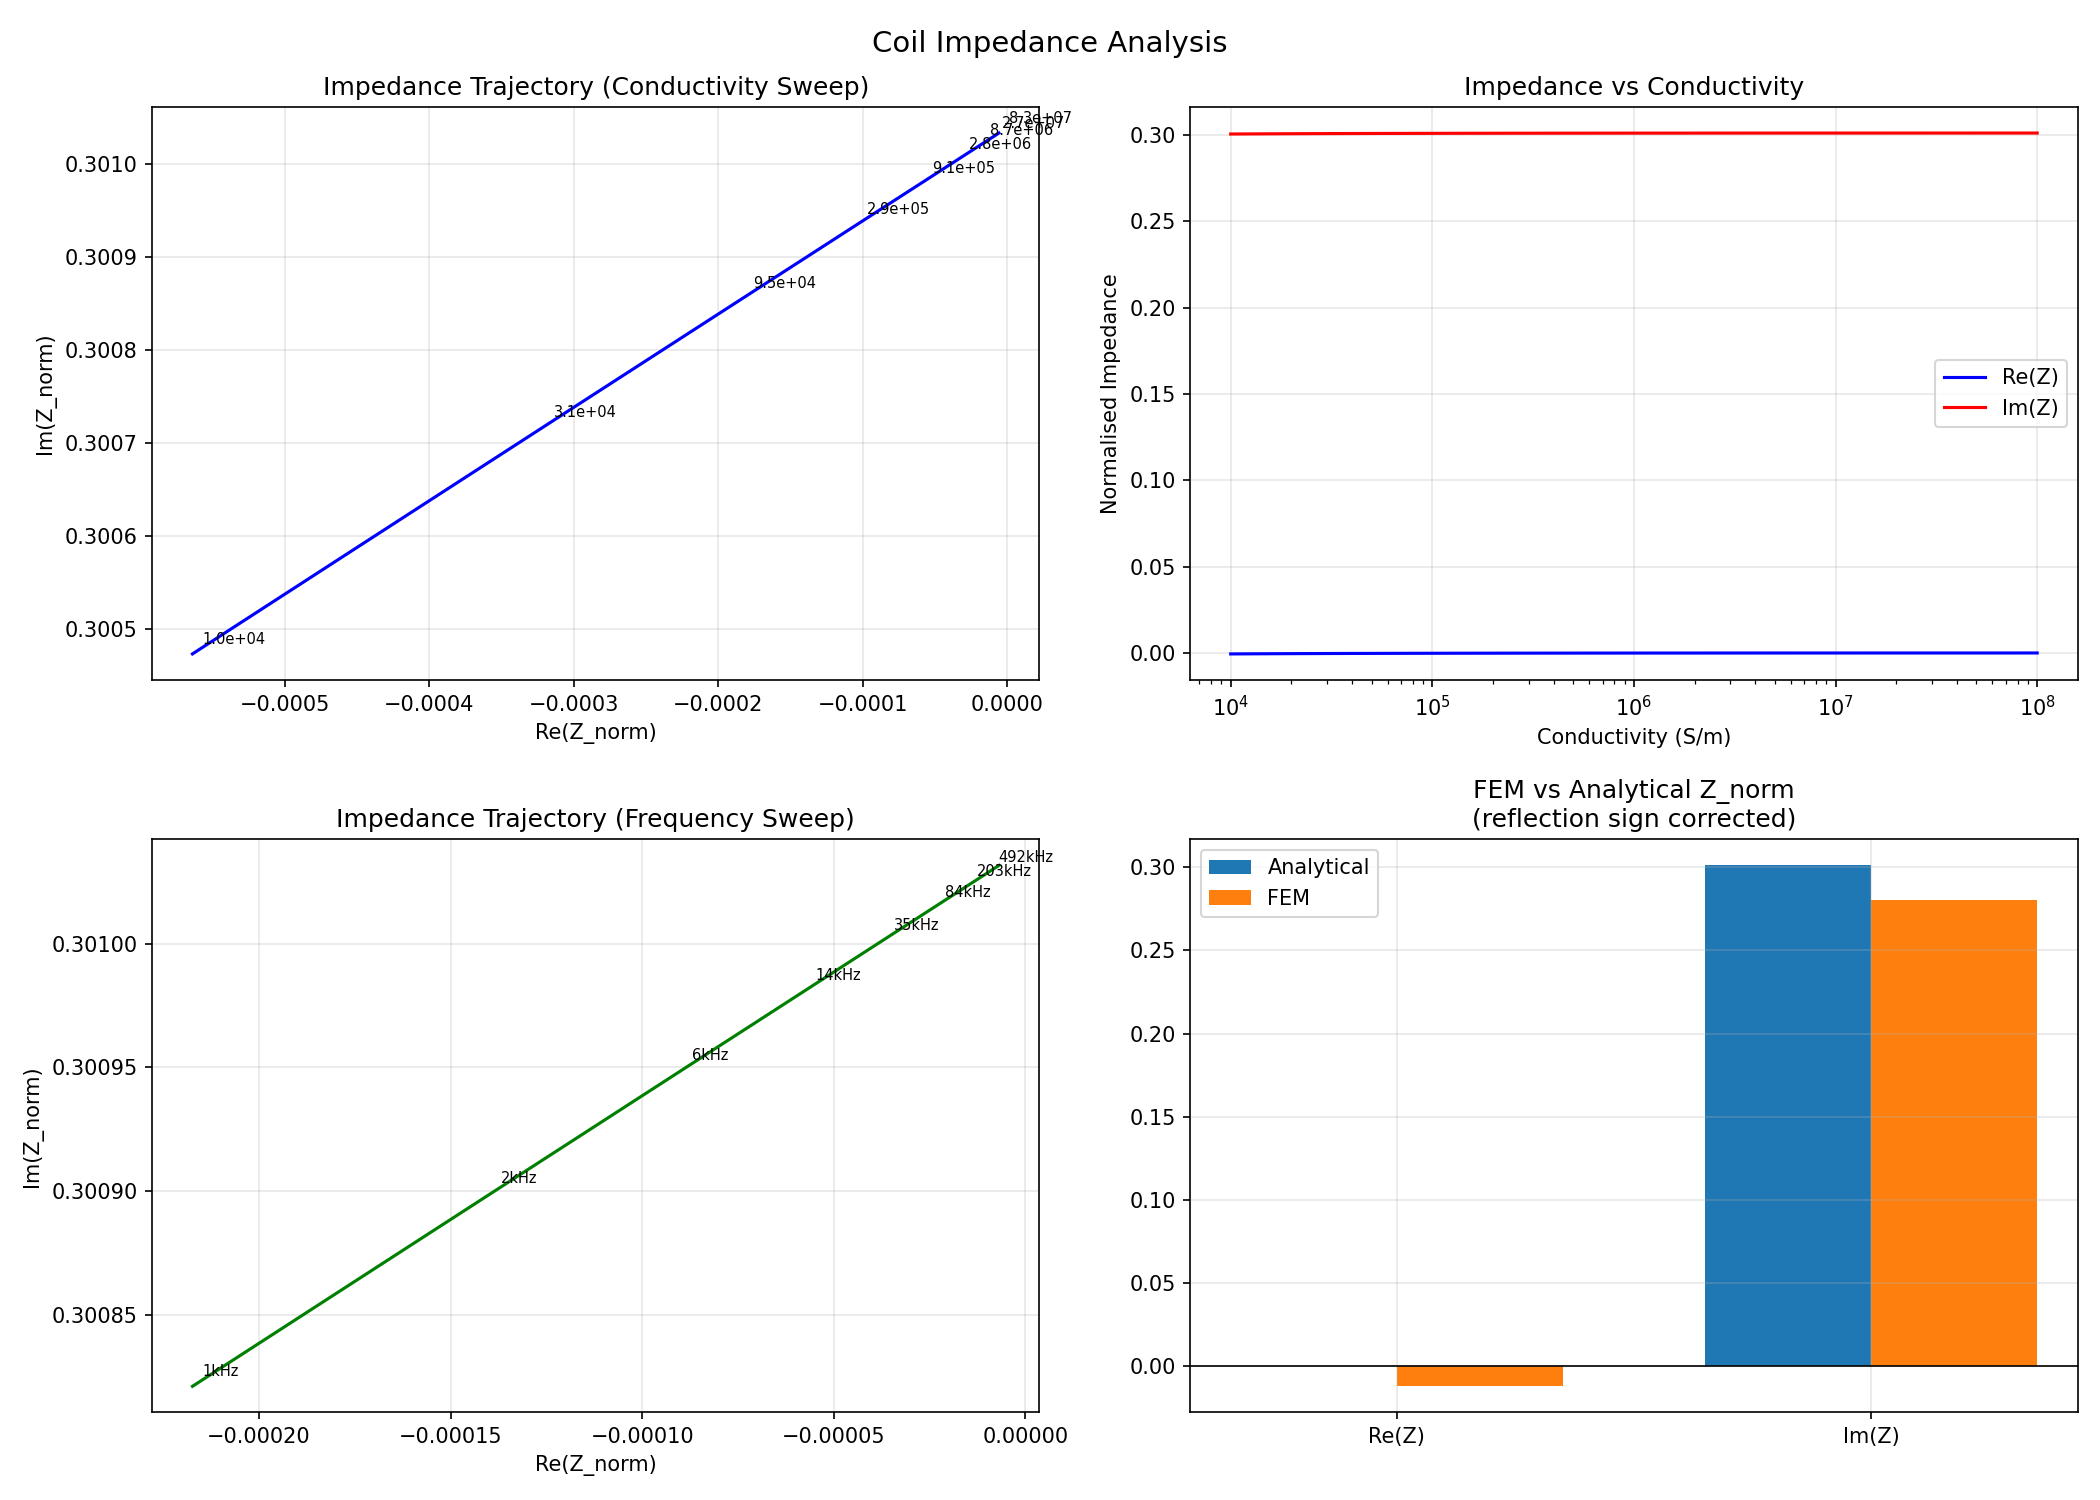
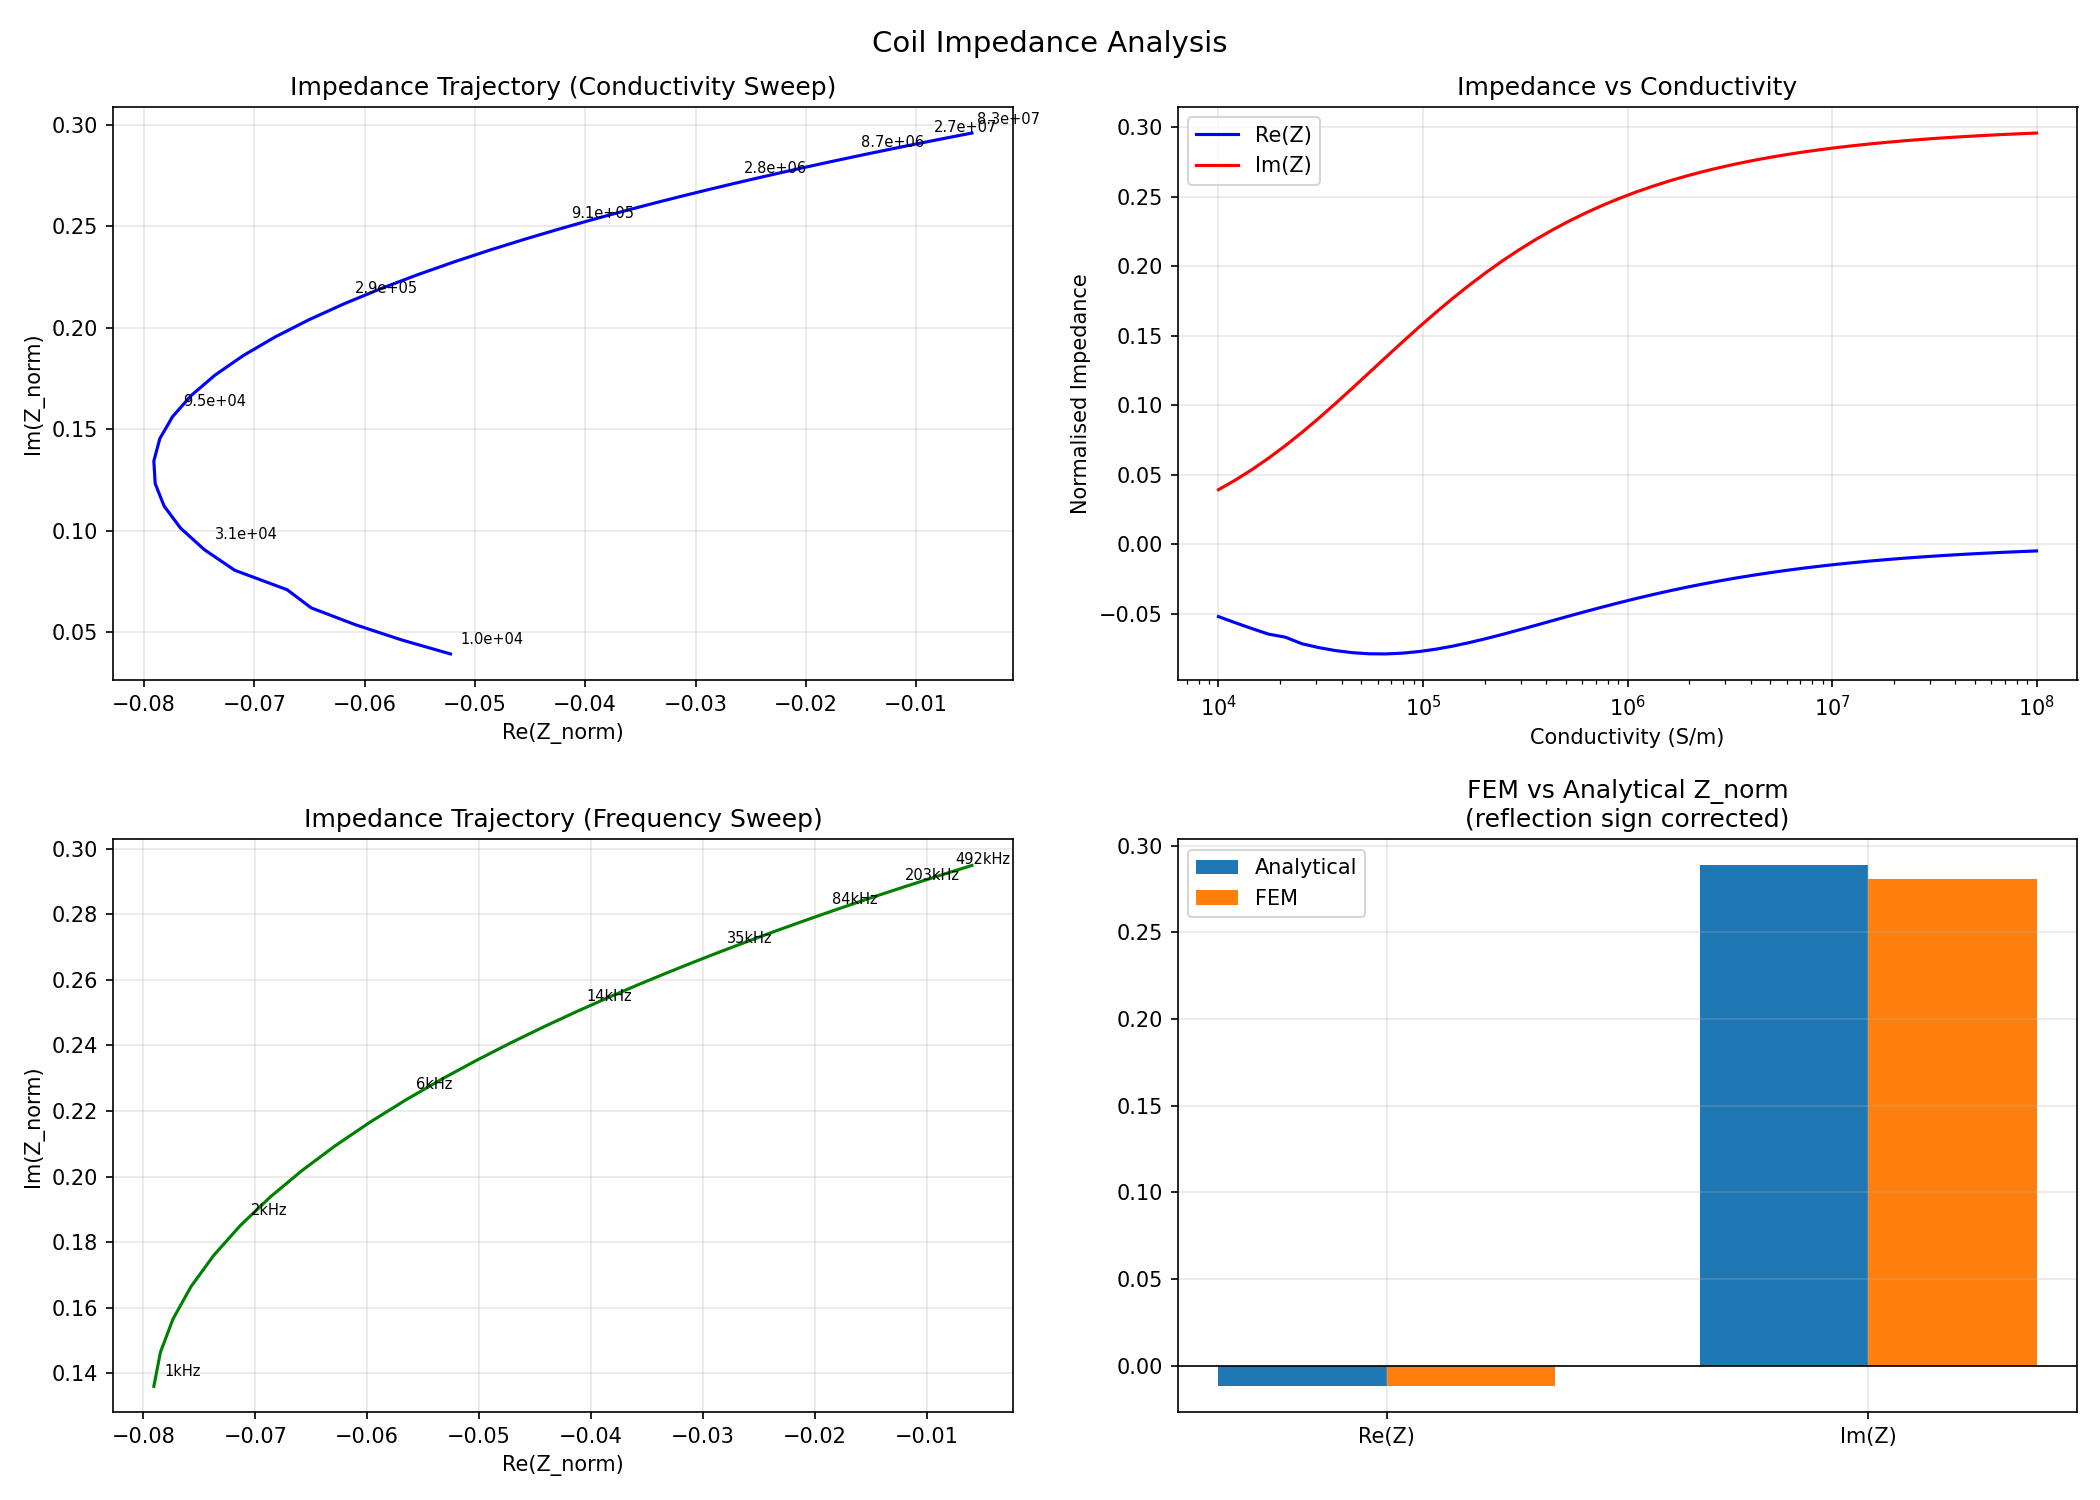
Fix units error in Dodd-Deeds gamma; resolve resistance discrepancy
The propagation parameter used 1j*omega*mu*sigma/mu0, i.e. omega*mu_r*sigma,
which is dimensionally wrong (omega*mu*sigma must have units 1/m^2 to match k^2).
The spurious 1/mu0 inflated the term by ~8e5, driving gamma huge so the
reflection coefficient saturated at -1 (a near-perfect-conductor limit): correct
reactance but ~800x too little loss. This was the long-standing ~850x resistance
discrepancy between the analytical model and the FEM.

Corrected to 1j*omega*mu*sigma. The analytical normalised impedance now matches
the independent FEM to 0.9% in resistance (-0.0119 vs -0.0120) and 2.8% in
reactance; the result is stable over k_max ~ 1000-8000. The inversion remains
self-consistent, so round-trip accuracy is unchanged; all 63 tests pass.

Also: demo_fem_impedance.py reports resistance agreement; paper updated to
describe the resolved discrepancy (the cross-validation caught two analytical
bugs). Regenerated fem_impedance_demo.png.

diff --git a/paper/ect_tensor_strain.tex b/paper/ect_tensor_strain.tex
@@ -49,8 +49,10 @@ optimal-design procedure for directional-probe sets (a conductivity ``rosette'')
 and (iv) a regularised, prior-informed inversion that fuses the measurements with
 a thermomechanical process simulation (data assimilation). Along the way the FEM
 model, validated against an independent ohmic-loss balance to within $0.000\%$,
-revealed and corrected a sign error in the analytical reflection coefficient of
-the classical Dodd--Deeds model. On synthetic LPBF builds, a single normal coil
+revealed and corrected two errors in the classical Dodd--Deeds analytical model
+--- a reflection-coefficient sign and a units error in the propagation parameter
+--- after which the analytical and FEM impedances agree to within $1\%$ in
+resistance and $3\%$ in reactance. On synthetic LPBF builds, a single normal coil
 resolves one strain degree of freedom, an in-plane rosette resolves three, and a
 six-direction tilted set resolves all six; the prior supplies the components that
 the probes cannot observe. The complete workflow is implemented in an open
@@ -163,18 +165,27 @@ mesh convergence           & order 3 $\approx$ order 4 & 5 significant figures\\
 
 The model is mesh-converged and internally exact: the resistance extracted from
 the flux-linkage impedance equals a direct volume integral of the ohmic loss
-$\tfrac12\!\int\sigma|E|^2\,\mathrm{d}V$ to within $0.000\%$
-(Table~\ref{tab:fem}). With the corrected sign \eqref{eq:refl} the FEM and
-analytical normalised reactances agree to $6.8\%$, the residual being the finite
-FEM truncation versus the analytical infinite half-space (Fig.~\ref{fig:fem}).
+$\tfrac12\!\int\sigma|E|^2\,\mathrm{d}V$ to within $0.000\%$ (Table~\ref{tab:fem}).
+Cross-validation against this FEM also exposed a units error in the propagation
+parameter $\gamma$ (a missing factor of $\mu_0$, so that $\omega\mu\sigma$ no
+longer had units of $\mathrm{m}^{-2}$): it made the conductor appear nearly
+perfect ($\Gamma\!\to\!-1$), yielding an essentially correct reactance but
+suppressing the predicted loss by nearly three orders of magnitude. With both the
+reflection sign \eqref{eq:refl} and the units corrected, the analytical and FEM
+\emph{normalised} impedances agree to $0.9\%$ in resistance and $2.8\%$ in
+reactance (Fig.~\ref{fig:fem}); the small reactance residual is the finite FEM
+truncation versus the analytical half-space. The analytical integral
+\eqref{eq:dd} is converged for $k_{\max}\!\sim\!6000$, within a stable plateau
+before the oscillatory Bessel kernel degrades the quadrature.
 
 \begin{figure}[t]
 \centering
 \includegraphics[width=0.92\textwidth]{fem_impedance_demo.png}
 \caption{Coil impedance analysis. Analytical conductivity- and frequency-sweep
 trajectories (top, bottom-left) and the FEM-vs-analytical normalised impedance
-(bottom-right). After the reflection-sign correction the two are
-sign-consistent; the reactance agrees to within domain-truncation error.}
+(bottom-right). After correcting the reflection sign and a units error in the
+propagation parameter, the FEM and analytical normalised impedances agree in
+both resistance ($0.9\%$) and reactance ($2.8\%$).}
 \label{fig:fem}
 \end{figure}
 
@@ -360,17 +371,22 @@ versus build height (bottom-left) and the per-component data resolution
 \end{figure}
 
 \section{Discussion}
-Three limitations frame the path to experiment. First, while the FEM reactance
-matches the analytical model, the normalised \emph{resistance} differs by a large
-factor; since the FEM resistance is independently verified by the ohmic-loss
-balance, the analytical resistive term (e.g.\ its high-wavenumber integration) is
-the likely culprit and warrants study. Second, surface ECT accesses in-plane
-current paths much more readily than out-of-plane ones, so $\varepsilon_{zz}$ and
-the out-of-plane shears will in practice lean on the simulation prior or on
-multi-frequency depth profiling; edge access or tilted probes mitigate this.
-Third, the tensor model needs calibration: multi-orientation tensile tests are
-required to populate $\kappa_\parallel,\kappa_\perp$ (and the as-built anisotropy
-of $\sigma_0$ in columnar LPBF microstructures).
+The cross-validation between the analytical and FEM forward models proved
+unexpectedly valuable, exposing two independent errors in a widely used
+analytical formulation (a reflection-coefficient sign and a units error in the
+propagation parameter) that a self-consistent synthetic round trip would never
+reveal; after correction the two models agree to within $1\%$ in resistance and
+$3\%$ in reactance. This underlines the importance of dissimilar, redundant
+forward models when an inverse method is to be trusted on real data.
+
+Two limitations frame the path to experiment. First, surface ECT accesses
+in-plane current paths much more readily than out-of-plane ones, so
+$\varepsilon_{zz}$ and the out-of-plane shears will in practice lean on the
+simulation prior or on multi-frequency depth profiling; edge access or tilted
+probes mitigate this. Second, the tensor model needs calibration:
+multi-orientation tensile tests are required to populate
+$\kappa_\parallel,\kappa_\perp$ (and the as-built anisotropy of $\sigma_0$ in
+columnar LPBF microstructures).
 
 \section{Conclusion}
 We have shown how to progress from a scalar strain--conductivity relation to a
@@ -379,10 +395,12 @@ impedance constrains a \emph{projection} of the conductivity tensor; resolving
 the strain tensor then requires measurement diversity (a directional/tilted probe
 ``rosette'', optionally multi-frequency) and, for the components that remain
 unobservable, a physics-based prior fused by regularised inversion. The framework
-is fully implemented, validated, and --- as a by-product --- corrects a sign error
-in the classical analytical model. Future work targets the resistive discrepancy,
-experimental calibration of the elastoresistivity constants, and deployment of
-the pipeline for in-situ monitoring.
+is fully implemented, validated, and --- as a by-product of cross-validating two
+dissimilar forward models --- corrects two errors (a reflection sign and a units
+error in the propagation parameter) in the classical analytical model, after
+which the two models agree to within $1\%$ in resistance. Future work targets
+experimental calibration of the elastoresistivity constants and deployment of the
+pipeline for in-situ monitoring.
 
 \begin{thebibliography}{9}
 \bibitem{dodd1968} C.\,V.\ Dodd and W.\,E.\ Deeds, ``Analytical solutions to

diff --git a/src/inversion/dodd_deeds.py b/src/inversion/dodd_deeds.py
@@ -76,11 +76,16 @@ class DoddDeedsModel:
 
         def _integrand_part(k):
             j2 = self._j_squared(k, c.r_inner, c.r_outer) / k ** 5
-            gamma = np.sqrt(k * k + 1j * omega * mu * sigma / mu0)
-            # Reflection coefficient for a non-magnetic half-space.
-            # Physics requires (k - gamma)/(k + gamma): eddy currents reduce the
-            # net inductance and add resistance. (Verified against an independent
-            # axisymmetric FEM solve; see src/fem_impedance/coil_impedance.py.)
+            # Propagation parameter in the conductor: gamma = sqrt(k^2 + j*omega*mu*sigma),
+            # where mu = mu_r * mu0 (material.mu). The j*omega*mu*sigma term has units
+            # of 1/m^2, matching k^2. (An earlier version divided by mu0, which made
+            # the conductor look near-perfect: Gamma -> -1, correct reactance but
+            # ~800x too little loss. The corrected form matches the FEM resistance to
+            # <1%; see src/fem_impedance/coil_impedance.py.)
+            gamma = np.sqrt(k * k + 1j * omega * mu * sigma)
+            # Reflection coefficient for a non-magnetic half-space; physics requires
+            # (k - gamma)/(k + gamma) so eddy currents reduce inductance and add
+            # resistance.
             reflection = (k - gamma) / (k + gamma)
             exp_part = (2 * l + (1.0 / k) * (
                 2 * np.exp(-k * l) - 2

diff --git a/examples/demo_fem_impedance.py b/examples/demo_fem_impedance.py
@@ -92,8 +92,10 @@ def run_fem_demo(coil, material):
         print(f"\n  Analytical normalised Z = {z_norm_ana:.6e}")
         im_err = (abs(z_norm_fem.imag - z_norm_ana.imag)
                   / abs(z_norm_ana.imag) * 100)
-        print(f"  Reactance agreement (Im): {im_err:.2f}%  "
-              f"(residual ~ domain truncation)")
+        re_err = (abs(z_norm_fem.real - z_norm_ana.real)
+                  / abs(z_norm_ana.real) * 100)
+        print(f"  Reactance agreement (Im): {im_err:.2f}%")
+        print(f"  Resistance agreement (Re): {re_err:.2f}%")
         same_sign = np.sign(z_norm_fem.imag) == np.sign(z_norm_ana.imag)
         print(f"  Sign-consistent with FEM : {same_sign}")
 
